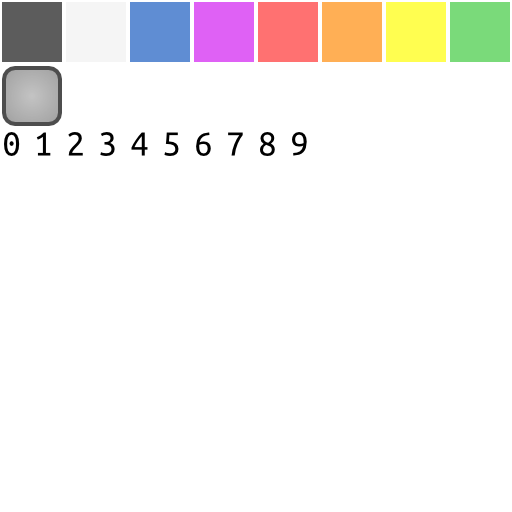
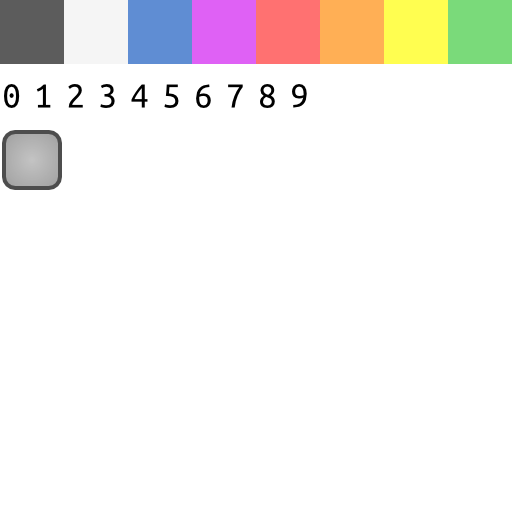
edit texture

diff --git a/examples/textures.js b/examples/textures.js
@@ -2,26 +2,29 @@ Cut.addTexture({
   name : "base",
   imagePath : "../example.png",
   imageRatio : 4,
+  trim : 0.2,
   cutouts : [
-    { name : "color_dark",   x : 0*16,  y : 0, width : 16, height : 16 },
-    { name : "color_light",  x : 1*16,  y : 0, width : 16, height : 16 },
-    { name : "color_blue",   x : 2*16,  y : 0, width : 16, height : 16 },
-    { name : "color_purple", x : 3*16,  y : 0, width : 16, height : 16 },
-    { name : "color_red",    x : 4*16,  y : 0, width : 16, height : 16 },
-    { name : "color_orange", x : 5*16,  y : 0, width : 16, height : 16 },
-    { name : "color_yellow", x : 6*16,  y : 0, width : 16, height : 16 },
-    { name : "color_green",  x : 7*16,  y : 0, width : 16, height : 16 },
-    { name : "box",          x : 0*16,  y : 16, width : 16, height : 16, top : 16/4, bottom : 16/4, left : 16/4, right : 16/4},
-
-    { name : "d_0",  x : 0*8,  y : 32, width : 8, height : 8 },
-    { name : "d_1",  x : 1*8,  y : 32, width : 8, height : 8 },
-    { name : "d_2",  x : 2*8,  y : 32, width : 8, height : 8 },
-    { name : "d_3",  x : 3*8,  y : 32, width : 8, height : 8 },
-    { name : "d_4",  x : 4*8,  y : 32, width : 8, height : 8 },
-    { name : "d_5",  x : 5*8,  y : 32, width : 8, height : 8 },
-    { name : "d_6",  x : 6*8,  y : 32, width : 8, height : 8 },
-    { name : "d_7",  x : 7*8,  y : 32, width : 8, height : 8 },
-    { name : "d_8",  x : 8*8,  y : 32, width : 8, height : 8 },
-    { name : "d_9",  x : 9*8,  y : 32, width : 8, height : 8 },
+    { name : "color_dark",   x : 0*16,  y : 0,  width : 16, height : 16 },
+    { name : "color_light",  x : 1*16,  y : 0,  width : 16, height : 16 },
+    { name : "color_blue",   x : 2*16,  y : 0,  width : 16, height : 16 },
+    { name : "color_purple", x : 3*16,  y : 0,  width : 16, height : 16 },
+    { name : "color_red",    x : 4*16,  y : 0,  width : 16, height : 16 },
+    { name : "color_orange", x : 5*16,  y : 0,  width : 16, height : 16 },
+    { name : "color_yellow", x : 6*16,  y : 0,  width : 16, height : 16 },
+    { name : "color_green",  x : 7*16,  y : 0,  width : 16, height : 16 },
+    
+    { name : "d_0",          x : 0*8,   y : 20, width : 8,  height : 8 },
+    { name : "d_1",          x : 1*8,   y : 20, width : 8,  height : 8 },
+    { name : "d_2",          x : 2*8,   y : 20, width : 8,  height : 8 },
+    { name : "d_3",          x : 3*8,   y : 20, width : 8,  height : 8 },
+    { name : "d_4",          x : 4*8,   y : 20, width : 8,  height : 8 },
+    { name : "d_5",          x : 5*8,   y : 20, width : 8,  height : 8 },
+    { name : "d_6",          x : 6*8,   y : 20, width : 8,  height : 8 },
+    { name : "d_7",          x : 7*8,   y : 20, width : 8,  height : 8 },
+    { name : "d_8",          x : 8*8,   y : 20, width : 8,  height : 8 },
+    { name : "d_9",          x : 9*8,   y : 20, width : 8,  height : 8 },
+    
+    { name : "box",          x : 0,     y : 32, width : 16, height : 16, top : 16/4, bottom : 16/4, left : 16/4, right : 16/4},
+    
   ]
 });

diff --git a/examples/grid/app.js b/examples/grid/app.js
@@ -17,9 +17,9 @@ Cut.Loader.load(function(root, container) {
   var last = null;
 
   var j = 0, i = 0;
-  var column = Cut.column().appendTo(viewport).pin("align", 0.5);
+  var column = Cut.column().appendTo(viewport).pin("align", 0.5).spacing(1);
   for (j = 0; j < 9; j++) {
-    var row = Cut.row().appendTo(column);
+    var row = Cut.row().appendTo(column).spacing(1);
     for (i = 0; i < 9; i++) {
       // colors as frames
       var cell = Cut.anim("base:color_").appendTo(row).pin("pivot", 0.5);

diff --git a/examples/row-dynamic/app.js b/examples/row-dynamic/app.js
@@ -16,7 +16,7 @@ Cut.Loader.load(function(root, container) {
   var last = null;
   var colors = [ "green", "blue", "purple", "red", "orange", "yellow" ];
 
-  var row = Cut.row(0.5).appendTo(viewport).pin("align", 0.5);
+  var row = Cut.row(0.5).appendTo(viewport).pin("align", 0.5).spacing(1);
   for (var i = 0; i < colors.length; i++) {
 
     Cut.image("base:color_" + colors[i]).appendTo(row).listen(Cut.Mouse.MOVE,

diff --git a/examples/row-static/app.js b/examples/row-static/app.js
@@ -16,7 +16,7 @@ Cut.Loader.load(function(root, container) {
   var last = null;
   var colors = [ "green", "blue", "purple", "red", "orange", "yellow" ];
 
-  var row = Cut.row().appendTo(viewport).pin("align", 0.5);
+  var row = Cut.row().appendTo(viewport).pin("align", 0.5).spacing(1);
   for (var i = 0; i < colors.length; i++) {
 
     Cut.image("base:color_" + colors[i]).appendTo(row).pin("pivot", 0.5)
